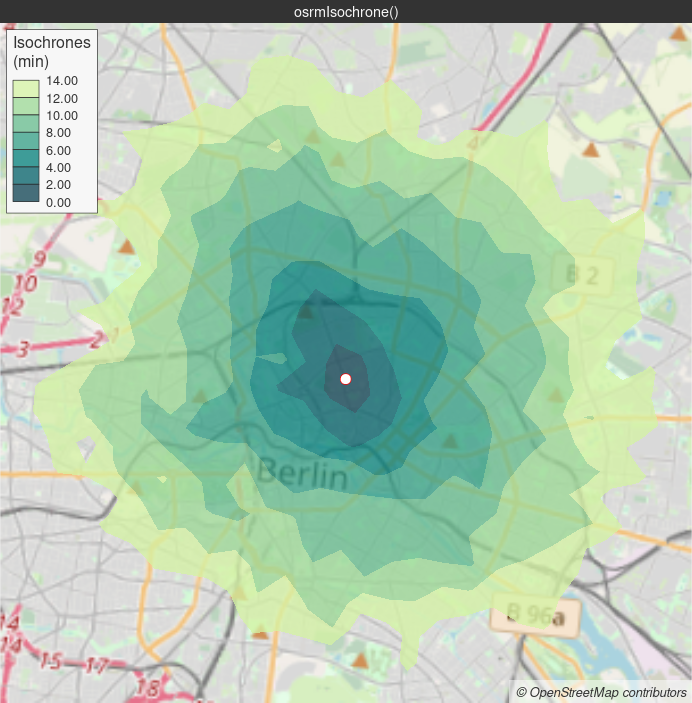
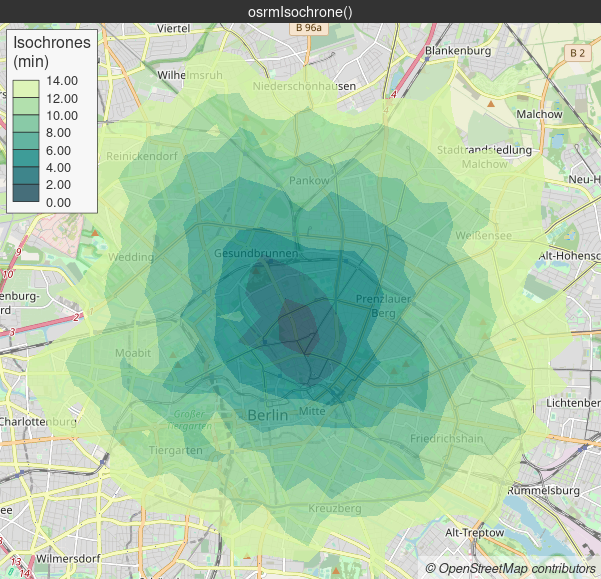
docs: update README and figures

diff --git a/README.md b/README.md
@@ -58,21 +58,38 @@ library(osrm)
 
 ``` r
 library(sf)
+```
+
+    ## Linking to GEOS 3.9.0, GDAL 3.2.2, PROJ 7.1.0; sf_use_s2() is TRUE
+
+``` r
 apotheke.sf <- st_read(system.file("gpkg/apotheke.gpkg", package = "osrm"), 
                        quiet = TRUE)
 # Travel time matrix
 distA <- osrmTable(loc = apotheke.sf[1:5,])
+```
+
+    ## [1] "http://0.0.0.0:5000/table/v1/car/polyline(_nh_Iyu_qA`vBikZo`^dgPzkVmvDmVnnK)?annotations=duration"
+
+``` r
 distA$durations
 ```
+
+    ##      1    2    3    4    5
+    ## 1  0.0 21.1 33.2 21.2 12.6
+    ## 2 22.1  0.0 42.3 16.1 20.2
+    ## 3 32.7 43.0  0.0 30.5 27.4
+    ## 4 20.1 15.3 29.7  0.0 12.7
+    ## 5 10.2 20.3 26.8 12.3  0.0
 
 <small>
 
 |     |    1 |    2 |    3 |    4 |    5 |
 |:----|-----:|-----:|-----:|-----:|-----:|
-| 1   |  0.0 | 21.5 | 33.2 | 21.2 | 12.1 |
-| 2   | 22.6 |  0.0 | 41.8 | 16.1 | 20.2 |
-| 3   | 32.9 | 42.4 |  0.0 | 30.2 | 27.4 |
-| 4   | 20.1 | 15.3 | 29.4 |  0.0 | 12.9 |
+| 1   |  0.0 | 21.1 | 33.2 | 21.2 | 12.6 |
+| 2   | 22.1 |  0.0 | 42.3 | 16.1 | 20.2 |
+| 3   | 32.7 | 43.0 |  0.0 | 30.5 | 27.4 |
+| 4   | 20.1 | 15.3 | 29.7 |  0.0 | 12.7 |
 | 5   | 10.2 | 20.3 | 26.8 | 12.3 |  0.0 |
 
 </small>
@@ -84,14 +101,16 @@ library(maptiles)
 library(mapsf)
 # Route
 route <- osrmRoute(src = apotheke.sf[74,], dst = apotheke.sf[55,],
-                   overview = "full", returnclass = "sf")
+                   overview = "full")
+# Transform to webmercator for a better display of map tiles
+route <- st_transform(route, 3857)
 # Get map tiles
 osm <- get_tiles(x = route, crop = TRUE, zoom = 13)
 # Map
 theme <- mf_theme(mar = c(0,0,1.2,0), inner = FALSE, line = 1.2, cex = .9, 
                   pos = "center", tab = FALSE)
 mf_export(osm,filename = "img/route.png", width = ncol(osm), theme = theme)
-mf_raster(osm, add = TRUE)
+mf_raster(osm, add = T)
 mf_map(route, lwd = 4, add = TRUE, col = "blue")
 mf_map(route, lwd = 1, col = "white", add = TRUE)
 mf_map(apotheke.sf[c(74,55),], pch = 20, col = "red", add = TRUE)
@@ -107,12 +126,14 @@ dev.off()
 
 ``` r
 # Trip 
-trips <- osrmTrip(loc = apotheke.sf[10:20,], returnclass="sf")
+trips <- osrmTrip(loc = apotheke.sf[10:20,])
 trip <- trips[[1]]$trip
+# Transform to webmercator for a better display of map tiles
+trip <- st_transform(trip, 3857)
 # Get map tiles
 osm2 <- get_tiles(x = trip, crop = TRUE, zoom = 11)
 # Map
-mf_export(osm2,filename = "img/trip.png", width = ncol(osm), theme = theme)
+mf_export(osm2,filename = "img/trip.png", width = ncol(osm2), theme = theme)
 mf_raster(osm2, add = TRUE)
 mf_map(trip, col = "black", lwd = 4, add = TRUE )
 mf_map(trip, col = c("red", "white"), lwd = 1, add = TRUE)
@@ -131,11 +152,18 @@ dev.off()
 bks <- seq(from = 0, to = 14, by = 2)
 iso <- osrmIsochrone(loc = apotheke.sf[87,], returnclass="sf",
                      breaks = bks, res = 70)
+```
+
+    ## Warning: "returnclass" is deprecated.
+
+``` r
+# Transform to webmercator for a better display of map tiles
+iso <- st_transform(iso, 3857)
 # Get map tiles
-osm3 <- get_tiles(x = iso, crop = TRUE, zoom = 11)
+osm3 <- get_tiles(x = iso, crop = TRUE, zoom = 12)
 # Map
 cols <- hcl.colors(n = 7, palette = "Emrld", alpha = 0.75, rev = F)
-mf_export(osm3,filename = "img/iso.png", width = ncol(osm), theme = theme)
+mf_export(osm3,filename = "img/iso.png", width = ncol(osm3), theme = theme)
 mf_raster(osm3, add = TRUE)
 mf_map(x = iso, var = "center", type = "choro", 
        breaks = bks, border = NA, pal = cols,
